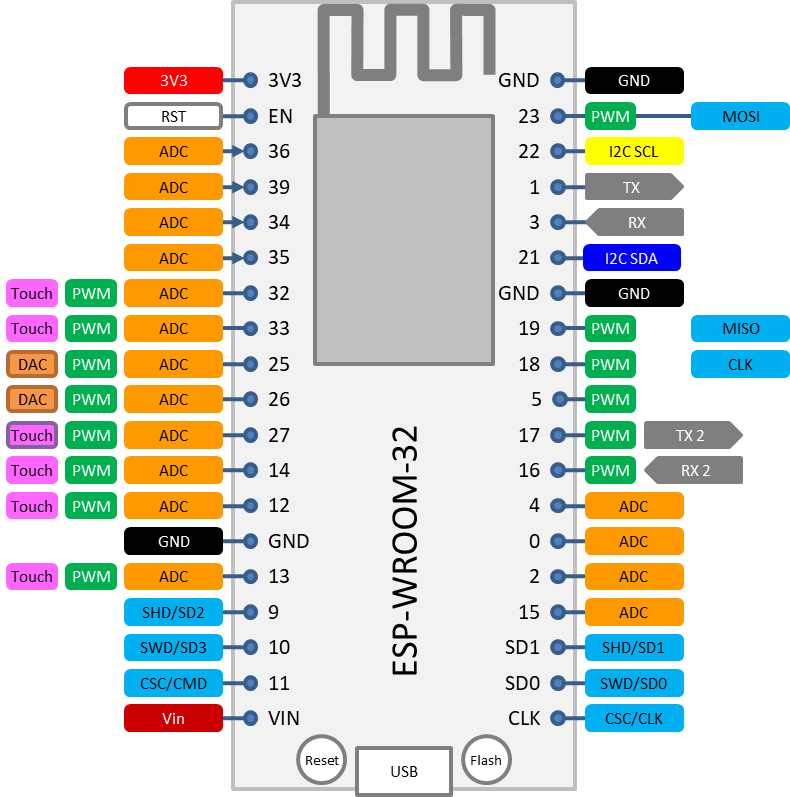
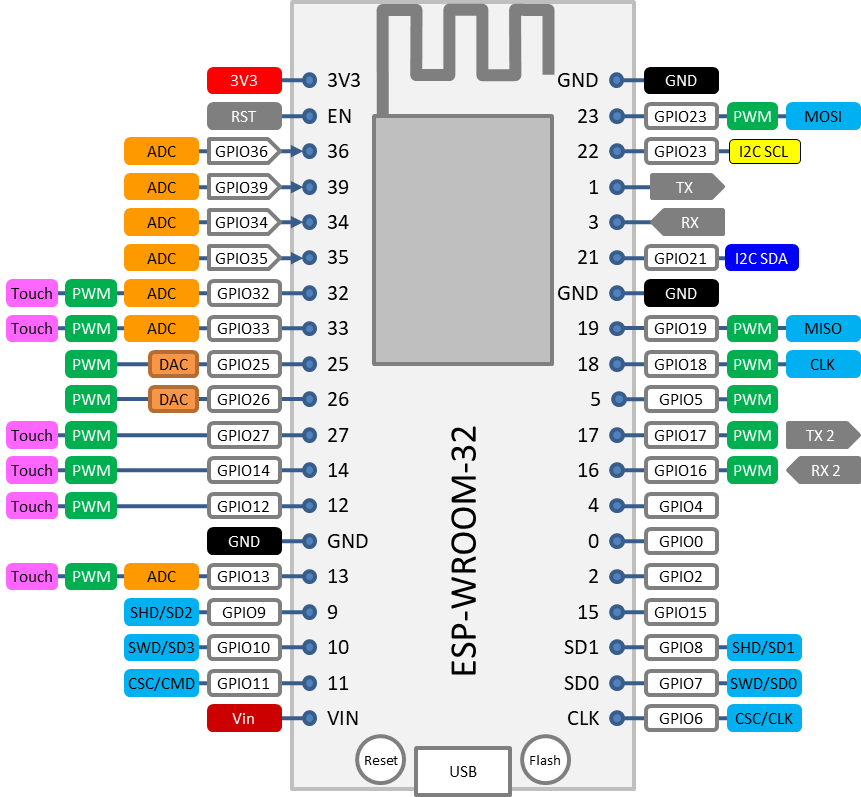
docu

Changed region(s): [[0.0, 0.0, 1.0, 1.0], [0.4861, 0.5119, 0.5772, 0.8733]]

diff --git a/elements/ssd1309.md b/elements/ssd1309.md
@@ -7,20 +7,13 @@ excerpt: >
   The DisplaySSD1309 Element allows connecting a pixel based OLED display based on a SSD1309 chip.
 ---
 
-# {{title}}
-
-::: excerpt {{id}}
-{{excerpt}}
-:::
-
-
 ## The SSD1309 based display
 
 There are 2.42 inch OLED display module on the market that can be used with HomeDing by using the SSD1306 compatibility mode.
 
 It offers a 128x64 resolution and supports SPI and I2C mode interfaces.
 
-It should be powered by 5V while the I2C signals are using 3.3V max. 
+It should be powered by 5V while the I2C signals are using 3.3V max.
 
 ## Enable I2C mode
 
@@ -30,7 +23,7 @@ As for I2C communication, it is necessary to move the resistor on R4 to R3, and 
 
 The I2C address is 0x3C / 60.
 
-Please have a look into the manual. 
+Please have a look into the manual.
 
 ## Wiring
 
@@ -71,7 +64,7 @@ Please have a look into the manual.
 ```
 
 
-## See also 
+## See also
 
 * [Using the I2C bus](/dev/i2c.md)
 * <https://forum.arduino.cc/index.php?topic=442255.15>

diff --git a/boards/esp32/devkit.md b/boards/esp32/devkit.md
@@ -26,10 +26,20 @@ The ESP32-WROOM module features:
 * 4 MByte SPI Flash memory
 * 520 kByte SRAMs
 
+In the following pin pictures the most useful functions on a pin are illustrated.
+Some functionality is problematic e.g.
+* using ADC2 win WiFi mode or
+* using the TR/RX pins for different functions but serial communication
+so I don't show it in the pictures.
 
 ## 30 pin version
 
 ![ESP32 DevKit 30pin version](/boards/esp32/devkit-30.png "w600")
+
+
+<!-- ## 36 pin version
+
+![ESP32 DevKit 36pin version](/boards/esp32/devkit-38.png "w600") -->
 
 
 ## 38 pin version
@@ -77,3 +87,4 @@ https://www.pschatzmann.ch/home/2022/01/25/platformio-debugging-the-esp32-audiok
 * <https://github.com/bdring/Grbl_Esp32/wiki/ESP32-DevKit-Versions>
 * <https://randomnerdtutorials.com/getting-started-with-esp32/>
 
+* <https://randomnerdtutorials.com/esp32-pinout-reference-gpios/>

diff --git a/elements/sensors.md b/elements/sensors.md
@@ -56,7 +56,7 @@ When returning `true` the data retrieval is assumed to be completed. The data ha
 When returning `true` and an empty string back it is assumed that the sensor cannot be reached and this will end the current data retrieval.
 
 
-## Sending Actions With Sensor Data.
+## Sending Actions With Sensor Data
 
 > void SendValues(&values);
 
@@ -74,4 +74,4 @@ The data returned by the `GetProbe()` function will be compared against the last
 
 When data from the sensor has not changed it may be necessary to trigger the actions from time to tome e.g. to inform remote elements about the actual values.
 
-By specifying the `resendtime` property the resent values are sent even when not changed. 
+By specifying the `resendtime` property the resent values are sent even when not changed.
